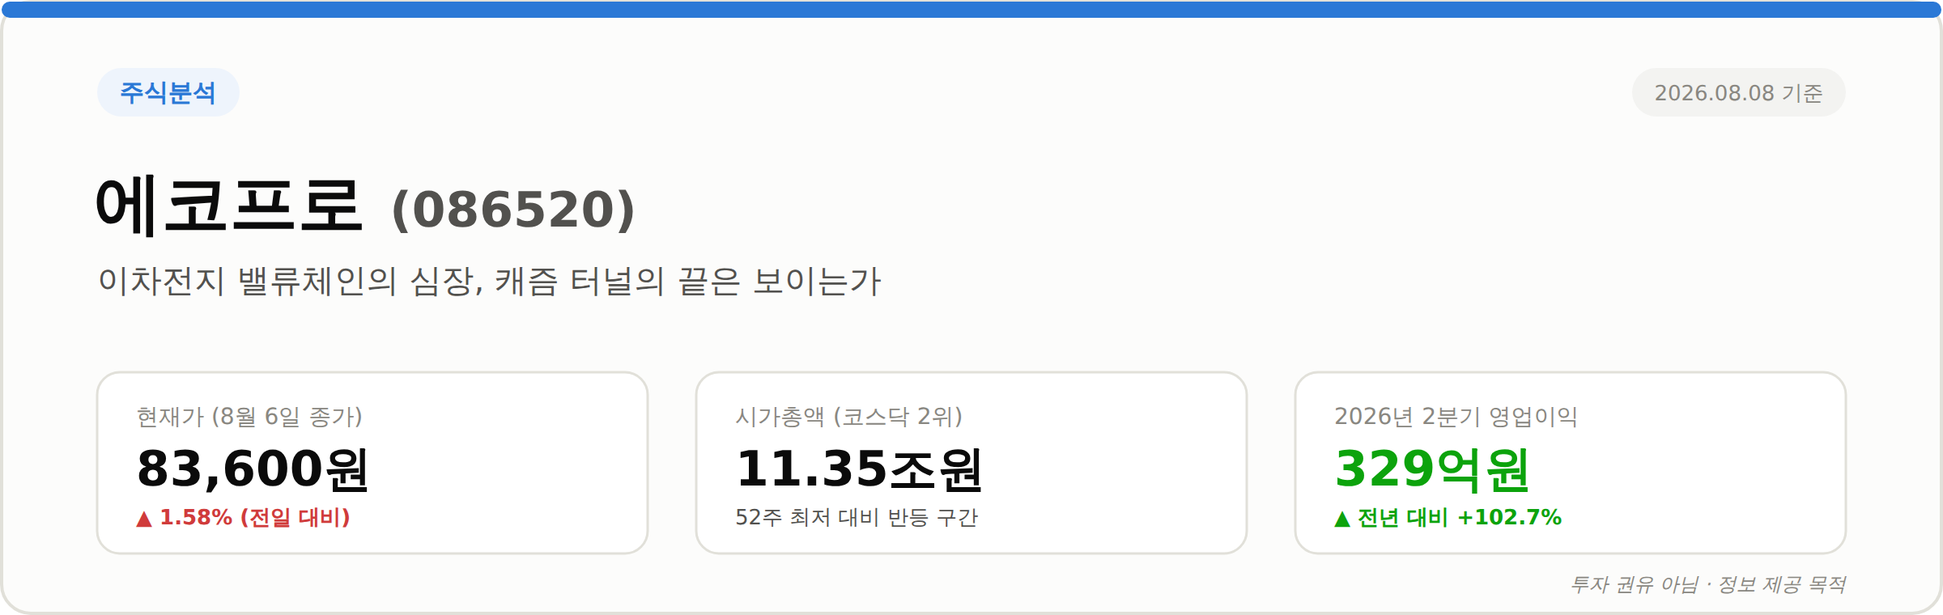
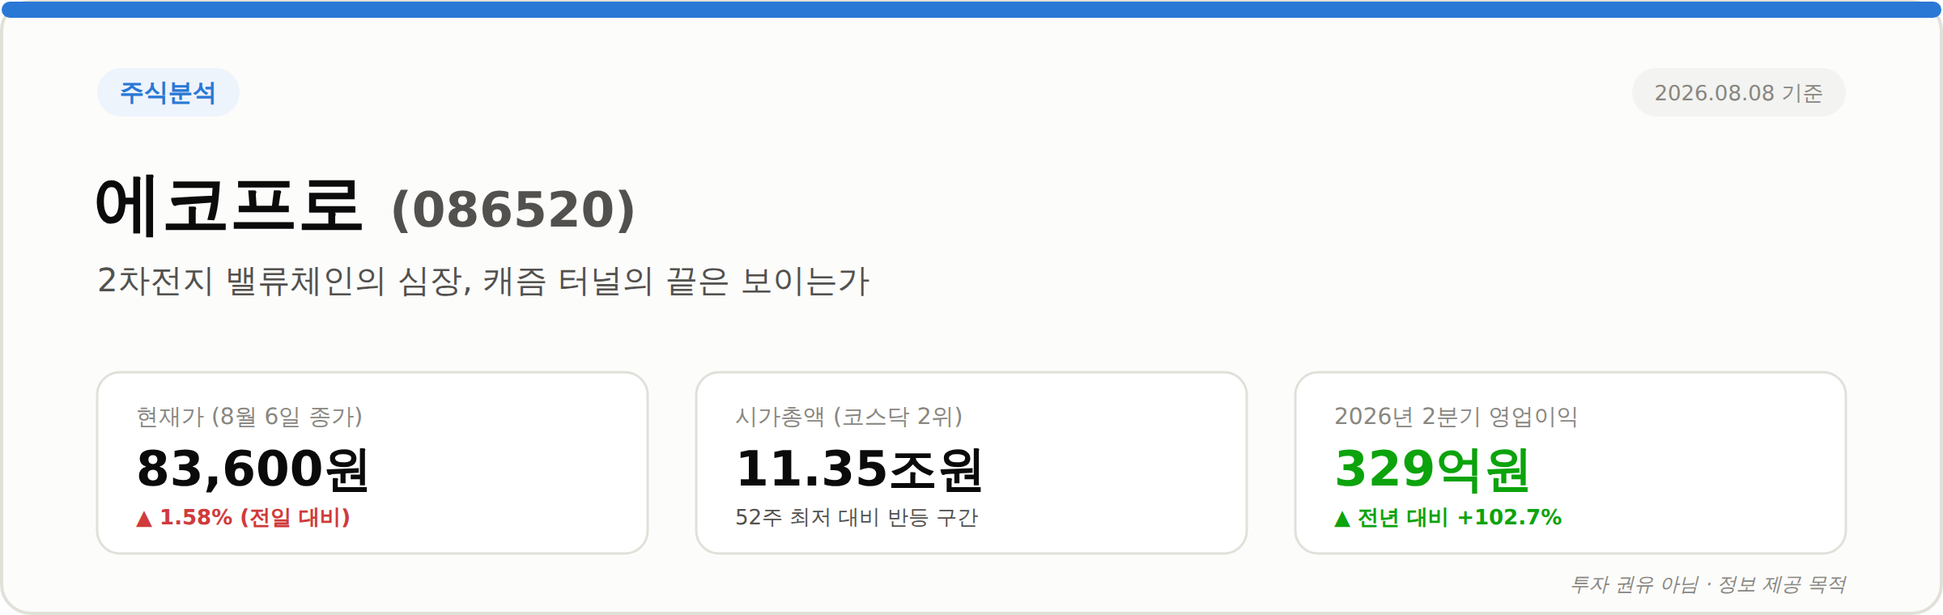
fix: 에코프로 글 용어 통일(이차전지→2차전지) 및 업종 전망 섹션 추가 (#21)
- "이차전지"를 "2차전지"로 전체 통일 (제목/태그/본문/커버 이미지)
- 새 섹션 "2차전지 업종 전망: 회복의 축은 전기차보다 ESS" 추가
  - 2026년 EV 배터리 수요 +13% vs ESS向 +50% 성장 전망, AI 데이터센터발
    전력 수요 증가, 미국 ESS 시장 확대(2025년 90GWh→2030년 160GWh)
  - 탈중국 공급망 재편에 따른 국내 업체 반사이익 기대감
  - 글로벌 양극재 출하량 LFP 72% vs 하이니켈 28%로 재편된 시장 구도와
    국내 업체들의 LFP·전고체 투트랙 대응
  - 에코프로비엠의 LFP 샘플 공급 개시 및 신중한 투자 재검토 현황
- 시나리오/투자포인트/리스크 섹션에도 ESS·LFP 전환 관련 내용 반영
- 커버 이미지(PNG) 재생성, 섹션 번호 재정렬(1~9)
- marked 렌더링 전수 검증(별표 노출/취소선 0건) 및 괄호 짝 검증 통과

Claude-Session: https://claude.ai/code/session_01WzxL9fDSxe2pwdrpmEY5Nh

Changed region(s): [[0.0312, 0.4237, 0.4688, 0.4842]]

diff --git a/src/App.tsx b/src/App.tsx
@@ -9,17 +9,17 @@ import { Post } from './types';
 const samplePosts: Post[] = [
   {
     id: 'post-11',
-    title: '에코프로(086520) 주가 분석 - 이차전지 밸류체인의 심장, 캐즘 터널의 끝은 보이는가',
+    title: '에코프로(086520) 주가 분석 - 2차전지 밸류체인의 심장, 캐즘 터널의 끝은 보이는가',
     category: '주식',
     date: '2026-08-08',
-    tags: ['주식', '에코프로', '086520', '이차전지', '양극재', '리튬', '종목분석', '코스닥'],
+    tags: ['주식', '에코프로', '086520', '2차전지', '양극재', '리튬', 'ESS', '종목분석', '코스닥'],
     naverCategory: '국내주식',
     filePath: 'posts/stock/ecopro-analysis.md',
-    content: `# 에코프로(086520) 주가 분석 - 이차전지 밸류체인의 심장, 캐즘 터널의 끝은 보이는가
+    content: `# 에코프로(086520) 주가 분석 - 2차전지 밸류체인의 심장, 캐즘 터널의 끝은 보이는가
 
 ![에코프로(086520) 주식분석 커버 이미지 - 현재가 83,600원, 시가총액 11.35조원(코스닥 2위), 2026년 2분기 영업이익 329억원(+102.7%)](/images/ecopro-stock/ecopro-cover.png)
 
-한때 "코스닥 황제주"로 불리며 국내 개인투자자들의 이차전지 열풍을 상징했던 종목, **에코프로**(086520)를 분석해 보려고 합니다. 2023년 화려한 랠리 이후 오랜 조정을 거쳐온 이 종목이 지금은 어떤 국면에 있는지, 그룹 밸류체인 구조와 최근 실적을 중심으로 정리해 봤습니다.
+한때 "코스닥 황제주"로 불리며 국내 개인투자자들의 2차전지 열풍을 상징했던 종목, **에코프로**(086520)를 분석해 보려고 합니다. 2023년 화려한 랠리 이후 오랜 조정을 거쳐온 이 종목이 지금은 어떤 국면에 있는지, 2차전지 업종 전반의 흐름과 함께 그룹 밸류체인 구조·최근 실적을 정리해 봤습니다.
 
 > ⚠ 이 글은 특정 종목의 매수·매도를 권유하는 글이 아니며, 투자 판단과 책임은 투자자 본인에게 있습니다. 수치는 공시 및 언론 보도를 바탕으로 정리했고, 일부 수치(52주 고점 등)는 발표된 등락률을 역산한 추정치입니다. 투자 전 최신 공시자료를 반드시 직접 확인해 주세요.
 
@@ -40,7 +40,21 @@ const samplePosts: Post[] = [
 
 ---
 
-## 2. 주가는 지금 어디에: 저점은 지났지만 고점은 아직 먼 조정 구간
+## 2. 2차전지 업종 전망: 회복의 축은 전기차보다 ESS
+
+에코프로 개별 종목을 보기 전에, 지금 2차전지 업종 전체가 어떤 흐름인지부터 짚어볼게요. 2026년 업황은 유럽 전기차 수요 회복과 미국 ESS(에너지저장장치) 수요 확대에 힘입어 반등 국면에 들어섰다는 평가가 늘고 있는데, 다만 성장을 이끄는 축 자체가 예전과는 달라졌다는 점이 눈에 띕니다.
+
+- **성장 축의 이동**: 2026년 전기차용 배터리 수요는 전년 대비 +13% 성장이 예상되는 반면, ESS向 배터리 수요는 +50% 성장이 전망돼요. "회복은 전기차보다 ESS가 이끈다"는 게 업계의 공통된 시각입니다.
+- **배경**: AI 데이터센터 전력 수요가 급증하면서 대규모 저장장치 수요가 함께 늘고 있고, 미국 ESS 시장은 2025년 90GWh에서 2030년 160GWh 규모로 확대될 것으로 전망돼요.
+- **탈중국 공급망 재편**: 미국·유럽이 중국산 배제 정책을 강화하면서, 비중국산 배터리 소재 공급망을 갖춘 국내 업체들에게 반사이익 기대감이 커지는 중입니다.
+- **시장 구도 변화**: 2025년 기준 글로벌 양극재 출하량은 LFP가 72%, 하이니켈(삼원계)이 28%로 이미 LFP가 대세예요. 국내 업체들은 그동안 강점이었던 하이니켈에만 안주하지 않고, LFP·전고체까지 포트폴리오를 넓히는 "투트랙" 전략으로 대응하고 있습니다.
+- **신규 수요처**: 휴머노이드 로봇, UAM(도심항공교통), 드론 등 신규 모빌리티向 배터리 소재 수요도 새롭게 떠오르고 있어요.
+
+에코프로비엠도 하이니켈 중심 포트폴리오에서 벗어나 LFP 양극재를 전구체·무전구체 방식 투트랙으로 개발 중이며, 올해 2분기부터 수백 톤 규모 샘플 공급을 시작했습니다. 다만 최근 LFP 관련 신규 투자 계획은 지역별 수요와 정책 환경을 지켜보며 선별적으로 재검토하는 등, 공격적인 확장보다는 신중한 접근을 택하는 모습이에요.
+
+---
+
+## 3. 주가는 지금 어디에: 저점은 지났지만 고점은 아직 먼 조정 구간
 
 ![에코프로 최근 1년 주가 흐름 차트 - 52주 최저 37,750원에서 반등해 고점을 찍었다가 2025년 12월 96,800원을 거쳐 2026년 8월 6일 83,600원으로 조정 중이며, 향후 낙관(10만원대)과 비관(5만원대) 두 시나리오를 보여줌](/images/ecopro-stock/ecopro-price-trend.png)
 
@@ -54,7 +68,7 @@ const samplePosts: Post[] = [
 
 ---
 
-## 3. 최근 실적: 배터리는 부진한데 지주사 이익은 늘어난 역설
+## 4. 최근 실적: 배터리는 부진한데 지주사 이익은 늘어난 역설
 
 | 구분 | 2026년 2분기 실적 |
 | --- | --- |
@@ -68,34 +82,37 @@ const samplePosts: Post[] = [
 
 ---
 
-## 4. 앞으로의 향방: 두 가지 시나리오
+## 5. 앞으로의 향방: 두 가지 시나리오
 
-### 📈 낙관 시나리오 (전기차 수요 회복 + 하이니켈 재개)
-- 전기차 수요가 2분기 이후 반등 조짐을 보이며 하이니켈 양극재 수요가 다시 살아나는 흐름
+### 📈 낙관 시나리오 (ESS·탈중국 수혜 + 하이니켈 재개)
+- 미국 ESS 시장 확대와 탈중국 공급망 재편 수혜가 본격화되며 비중국산 소재 수요가 국내 업체로 몰리는 흐름
+- 전기차 수요도 2분기 이후 반등 조짐을 보이며 하이니켈 양극재 수요가 다시 살아나는 흐름
 - 증권가에서는 에코프로비엠 목표주가를 24.6만원에서 28만원으로 상향(NH투자증권)하는 등 "최악의 구간은 지났다"는 평가가 늘어나는 중
 - Non-EV·반도체 소재 등 다각화 매출이 계속 이익을 방어하며 지주사 이익 체력이 유지되는 흐름
-- 관전 포인트: 3분기 이후 전기차 배터리 판매 물량의 실질적인 반등 여부
+- 관전 포인트: 3분기 이후 전기차 배터리 판매 물량의 실질적인 반등 여부, LFP 샘플 공급이 실제 수주로 이어지는지
 
-### 📉 비관 시나리오 (캐즘 재심화 + 중국 저가 공세)
+### 📉 비관 시나리오 (캐즘 재심화 + LFP 전환 지연)
 - 전기차 수요 반등이 일시적 반등에 그치고 캐즘(수요 둔화)이 다시 깊어지는 흐름
-- 중국 양극재·리튬 업체들의 저가 공세가 지속되며 가격 경쟁력 압박이 커짐
+- 이미 출하량 기준 시장의 72%를 차지한 중국 LFP 업체들에 밀려, 국내 업체들의 LFP 전환이 계속 늦어지는 흐름
 - 리튬 등 원자재 가격이 재차 하락하며 그룹 전반의 이익 방어력이 약해짐
 - 이 경우 주가는 다시 52주 최저가 부근인 5만원대까지 되밀릴 가능성
 
-두 시나리오 모두 결국 핵심은 "전기차 수요가 진짜 살아나느냐"입니다. 에코프로 그룹의 밸류체인 자체는 견고하지만, 그 밸류체인이 만들어내는 이익의 크기는 결국 전방 산업인 전기차 시장의 회복 속도에 달려 있다는 점을 함께 봐야 합니다.
+두 시나리오 모두 결국 핵심은 "2차전지 수요 회복이 진짜냐, 그리고 그 회복의 열매를 국내 업체가 가져갈 수 있느냐"입니다. 에코프로 그룹의 밸류체인 자체는 견고하지만, 그 밸류체인이 만들어내는 이익의 크기는 결국 전방 산업(전기차·ESS)의 회복 속도와 LFP 대응 속도에 함께 달려 있다는 점을 봐야 합니다.
 
 ---
 
-## 5. 투자 포인트 (강점)
+## 6. 투자 포인트 (강점)
 
 - **수직계열화된 밸류체인**: 원료(니켈·리튬)부터 전구체·양극재·재활용까지 그룹 내에서 순환하는 구조로 원가 경쟁력과 공급망 안정성을 함께 확보
 - **사업 다각화에 따른 이익 방어력**: 이번 분기 실적으로 배터리 부진을 리튬·환경 사업이 방어한다는 점이 실제로 증명됨
+- **차세대 포트폴리오 대응**: 하이니켈 중심에서 LFP·전고체까지 투트랙으로 개발 중이라 ESS·신규 모빌리티向 수요 확대에도 대응할 여지가 있음
 - **개선되는 증권가 시각**: 자회사 에코프로비엠에 대한 목표주가 상향 리포트가 늘어나는 등 업황 반등 기대감이 조금씩 반영되는 중
 - **Non-EV·반도체 소재 다변화**: 전동공구, ESS, 반도체 소재 등으로 매출처를 넓히며 전기차 의존도를 낮추는 중
 
-## 6. 리스크 요인
+## 7. 리스크 요인
 
 - **전기차 캐즘 지속 가능성**: 지난 1~2년간 주가 부진의 핵심 원인이었던 수요 둔화가 완전히 해소됐다고 보기는 아직 이름
+- **LFP 전환 속도 리스크**: 글로벌 양극재 시장이 이미 LFP 중심(출하량 72%)으로 재편된 가운데, 하이니켈에 강점을 가진 국내 업체들의 LFP 대응이 늦어질 경우 경쟁력이 약해질 수 있음
 - **중국 업체의 저가 공세**: LFP 등 저가 배터리 소재 시장에서 중국 업체들의 점유율 확대 압박
 - **원자재 가격 변동성**: 리튬·니켈 등 원자재 가격에 이익 구조가 민감하게 반응
 - **지주사 디스카운트**: 핵심 사업가치 상당 부분이 상장 자회사(에코프로비엠 등)에 있어, 지주사 주가에는 할인 요인이 함께 작용할 수 있음
@@ -103,7 +120,7 @@ const samplePosts: Post[] = [
 
 ---
 
-## 7. 밸류에이션 체크
+## 8. 밸류에이션 체크
 
 - 에코프로(지주회사)는 자회사인 에코프로비엠 대비 증권사 커버리지가 적은 편이라, 목표주가 컨센서스의 신뢰도 자체가 낮은 편입니다. 특정 목표주가 하나만 보고 판단하기보다는, 자회사들의 실적과 업황 리포트를 함께 참고하는 편이 안전합니다.
 - 자회사 에코프로비엠에 대해서는 22만원(Trading Buy, IBK투자증권)부터 28만원(매수, NH투자증권)까지 목표주가가 제시되고 있어, 업황에 대한 시선 자체는 조금씩 개선되는 분위기입니다.
@@ -111,15 +128,17 @@ const samplePosts: Post[] = [
 
 ---
 
-## 8. 결론 및 투자자 시사점
+## 9. 결론 및 투자자 시사점
 
 에코프로는 "니켈·리튬 원료부터 재활용까지" 이어지는 보기 드문 수직계열화 구조를 가진 회사입니다. 2023년의 화려한 랠리와 그 이후의 긴 조정을 모두 겪으며, 지금은 배터리 한 사업만이 아니라 리튬·환경·반도체 소재까지 다각화된 이익 구조로 조금씩 체질을 바꾸고 있는 모습이 눈에 띕니다. 이번 2분기 실적에서 배터리 부진을 다른 사업부가 방어했다는 점이 그 증거입니다.
 
-다만 결국 주가의 방향을 결정할 핵심 변수는 ①전기차 수요 회복의 실질적인 속도, ②중국 업체와의 가격 경쟁, ③리튬 등 원자재 가격 흐름이라는 세 가지로 요약됩니다. 다음 분기 실적에서 Non-EV 물량 확대가 이어지는지, 그리고 전기차용 양극재 판매가 실제로 반등하는지를 함께 확인하시는 것을 추천드립니다.
+여기에 2차전지 업종 전체로 보면, 회복의 축이 전기차에서 ESS로 옮겨가고 있고 미국·유럽의 탈중국 공급망 재편이 국내 업체들에게 기회로 작용할 수 있다는 점도 함께 봐야 할 변수입니다. 다만 이미 시장의 대세가 된 LFP로의 전환 속도, 그리고 여전히 불확실한 전기차 수요 회복 속도라는 두 축이 앞으로의 방향을 가를 것으로 보입니다.
+
+결국 주가의 방향을 결정할 핵심 변수는 ①전기차·ESS 수요 회복의 실질적인 속도, ②LFP·전고체 등 차세대 소재 전환 대응력, ③중국 업체와의 가격 경쟁, ④리튬 등 원자재 가격 흐름이라는 네 가지로 요약됩니다. 다음 분기 실적에서 Non-EV·ESS向 물량 확대가 이어지는지, 그리고 LFP 샘플 공급이 실제 수주로 이어지는지를 함께 확인하시는 것을 추천드립니다.
 
 투자는 언제나 최신 공시자료와 분기 실적, 그리고 그날그날의 업황 뉴스를 직접 확인하신 후 신중하게 결정하시길 바랍니다. 📊
 
-#에코프로 #086520 #이차전지 #양극재 #리튬 #종목분석 #코스닥 #주식공부`
+#에코프로 #086520 #2차전지 #양극재 #리튬 #ESS #종목분석 #코스닥 #주식공부`
   },
   {
     id: 'post-10',

diff --git a/posts/stock/ecopro-analysis.md b/posts/stock/ecopro-analysis.md
@@ -1,16 +1,16 @@
 ---
-title: "에코프로(086520) 주가 분석 - 이차전지 밸류체인의 심장, 캐즘 터널의 끝은 보이는가"
+title: "에코프로(086520) 주가 분석 - 2차전지 밸류체인의 심장, 캐즘 터널의 끝은 보이는가"
 category: "주식"
 date: "2026-08-08"
-tags: ["주식", "에코프로", "086520", "이차전지", "양극재", "리튬", "종목분석", "코스닥"]
+tags: ["주식", "에코프로", "086520", "2차전지", "양극재", "리튬", "ESS", "종목분석", "코스닥"]
 naverCategory: "국내주식"
 ---
 
-# 에코프로(086520) 주가 분석 - 이차전지 밸류체인의 심장, 캐즘 터널의 끝은 보이는가
+# 에코프로(086520) 주가 분석 - 2차전지 밸류체인의 심장, 캐즘 터널의 끝은 보이는가
 
 ![에코프로(086520) 주식분석 커버 이미지 - 현재가 83,600원, 시가총액 11.35조원(코스닥 2위), 2026년 2분기 영업이익 329억원(+102.7%)](/images/ecopro-stock/ecopro-cover.png)
 
-한때 "코스닥 황제주"로 불리며 국내 개인투자자들의 이차전지 열풍을 상징했던 종목, **에코프로**(086520)를 분석해 보려고 합니다. 2023년 화려한 랠리 이후 오랜 조정을 거쳐온 이 종목이 지금은 어떤 국면에 있는지, 그룹 밸류체인 구조와 최근 실적을 중심으로 정리해 봤습니다.
+한때 "코스닥 황제주"로 불리며 국내 개인투자자들의 2차전지 열풍을 상징했던 종목, **에코프로**(086520)를 분석해 보려고 합니다. 2023년 화려한 랠리 이후 오랜 조정을 거쳐온 이 종목이 지금은 어떤 국면에 있는지, 2차전지 업종 전반의 흐름과 함께 그룹 밸류체인 구조·최근 실적을 정리해 봤습니다.
 
 > ⚠ 이 글은 특정 종목의 매수·매도를 권유하는 글이 아니며, 투자 판단과 책임은 투자자 본인에게 있습니다. 수치는 공시 및 언론 보도를 바탕으로 정리했고, 일부 수치(52주 고점 등)는 발표된 등락률을 역산한 추정치입니다. 투자 전 최신 공시자료를 반드시 직접 확인해 주세요.
 
@@ -31,7 +31,21 @@ naverCategory: "국내주식"
 
 ---
 
-## 2. 주가는 지금 어디에: 저점은 지났지만 고점은 아직 먼 조정 구간
+## 2. 2차전지 업종 전망: 회복의 축은 전기차보다 ESS
+
+에코프로 개별 종목을 보기 전에, 지금 2차전지 업종 전체가 어떤 흐름인지부터 짚어볼게요. 2026년 업황은 유럽 전기차 수요 회복과 미국 ESS(에너지저장장치) 수요 확대에 힘입어 반등 국면에 들어섰다는 평가가 늘고 있는데, 다만 성장을 이끄는 축 자체가 예전과는 달라졌다는 점이 눈에 띕니다.
+
+- **성장 축의 이동**: 2026년 전기차용 배터리 수요는 전년 대비 +13% 성장이 예상되는 반면, ESS向 배터리 수요는 +50% 성장이 전망돼요. "회복은 전기차보다 ESS가 이끈다"는 게 업계의 공통된 시각입니다.
+- **배경**: AI 데이터센터 전력 수요가 급증하면서 대규모 저장장치 수요가 함께 늘고 있고, 미국 ESS 시장은 2025년 90GWh에서 2030년 160GWh 규모로 확대될 것으로 전망돼요.
+- **탈중국 공급망 재편**: 미국·유럽이 중국산 배제 정책을 강화하면서, 비중국산 배터리 소재 공급망을 갖춘 국내 업체들에게 반사이익 기대감이 커지는 중입니다.
+- **시장 구도 변화**: 2025년 기준 글로벌 양극재 출하량은 LFP가 72%, 하이니켈(삼원계)이 28%로 이미 LFP가 대세예요. 국내 업체들은 그동안 강점이었던 하이니켈에만 안주하지 않고, LFP·전고체까지 포트폴리오를 넓히는 "투트랙" 전략으로 대응하고 있습니다.
+- **신규 수요처**: 휴머노이드 로봇, UAM(도심항공교통), 드론 등 신규 모빌리티向 배터리 소재 수요도 새롭게 떠오르고 있어요.
+
+에코프로비엠도 하이니켈 중심 포트폴리오에서 벗어나 LFP 양극재를 전구체·무전구체 방식 투트랙으로 개발 중이며, 올해 2분기부터 수백 톤 규모 샘플 공급을 시작했습니다. 다만 최근 LFP 관련 신규 투자 계획은 지역별 수요와 정책 환경을 지켜보며 선별적으로 재검토하는 등, 공격적인 확장보다는 신중한 접근을 택하는 모습이에요.
+
+---
+
+## 3. 주가는 지금 어디에: 저점은 지났지만 고점은 아직 먼 조정 구간
 
 ![에코프로 최근 1년 주가 흐름 차트 - 52주 최저 37,750원에서 반등해 고점을 찍었다가 2025년 12월 96,800원을 거쳐 2026년 8월 6일 83,600원으로 조정 중이며, 향후 낙관(10만원대)과 비관(5만원대) 두 시나리오를 보여줌](/images/ecopro-stock/ecopro-price-trend.png)
 
@@ -45,7 +59,7 @@ naverCategory: "국내주식"
 
 ---
 
-## 3. 최근 실적: 배터리는 부진한데 지주사 이익은 늘어난 역설
+## 4. 최근 실적: 배터리는 부진한데 지주사 이익은 늘어난 역설
 
 | 구분 | 2026년 2분기 실적 |
 | --- | --- |
@@ -59,34 +73,37 @@ naverCategory: "국내주식"
 
 ---
 
-## 4. 앞으로의 향방: 두 가지 시나리오
+## 5. 앞으로의 향방: 두 가지 시나리오
 
-### 📈 낙관 시나리오 (전기차 수요 회복 + 하이니켈 재개)
-- 전기차 수요가 2분기 이후 반등 조짐을 보이며 하이니켈 양극재 수요가 다시 살아나는 흐름
+### 📈 낙관 시나리오 (ESS·탈중국 수혜 + 하이니켈 재개)
+- 미국 ESS 시장 확대와 탈중국 공급망 재편 수혜가 본격화되며 비중국산 소재 수요가 국내 업체로 몰리는 흐름
+- 전기차 수요도 2분기 이후 반등 조짐을 보이며 하이니켈 양극재 수요가 다시 살아나는 흐름
 - 증권가에서는 에코프로비엠 목표주가를 24.6만원에서 28만원으로 상향(NH투자증권)하는 등 "최악의 구간은 지났다"는 평가가 늘어나는 중
 - Non-EV·반도체 소재 등 다각화 매출이 계속 이익을 방어하며 지주사 이익 체력이 유지되는 흐름
-- 관전 포인트: 3분기 이후 전기차 배터리 판매 물량의 실질적인 반등 여부
+- 관전 포인트: 3분기 이후 전기차 배터리 판매 물량의 실질적인 반등 여부, LFP 샘플 공급이 실제 수주로 이어지는지
 
-### 📉 비관 시나리오 (캐즘 재심화 + 중국 저가 공세)
+### 📉 비관 시나리오 (캐즘 재심화 + LFP 전환 지연)
 - 전기차 수요 반등이 일시적 반등에 그치고 캐즘(수요 둔화)이 다시 깊어지는 흐름
-- 중국 양극재·리튬 업체들의 저가 공세가 지속되며 가격 경쟁력 압박이 커짐
+- 이미 출하량 기준 시장의 72%를 차지한 중국 LFP 업체들에 밀려, 국내 업체들의 LFP 전환이 계속 늦어지는 흐름
 - 리튬 등 원자재 가격이 재차 하락하며 그룹 전반의 이익 방어력이 약해짐
 - 이 경우 주가는 다시 52주 최저가 부근인 5만원대까지 되밀릴 가능성
 
-두 시나리오 모두 결국 핵심은 "전기차 수요가 진짜 살아나느냐"입니다. 에코프로 그룹의 밸류체인 자체는 견고하지만, 그 밸류체인이 만들어내는 이익의 크기는 결국 전방 산업인 전기차 시장의 회복 속도에 달려 있다는 점을 함께 봐야 합니다.
+두 시나리오 모두 결국 핵심은 "2차전지 수요 회복이 진짜냐, 그리고 그 회복의 열매를 국내 업체가 가져갈 수 있느냐"입니다. 에코프로 그룹의 밸류체인 자체는 견고하지만, 그 밸류체인이 만들어내는 이익의 크기는 결국 전방 산업(전기차·ESS)의 회복 속도와 LFP 대응 속도에 함께 달려 있다는 점을 봐야 합니다.
 
 ---
 
-## 5. 투자 포인트 (강점)
+## 6. 투자 포인트 (강점)
 
 - **수직계열화된 밸류체인**: 원료(니켈·리튬)부터 전구체·양극재·재활용까지 그룹 내에서 순환하는 구조로 원가 경쟁력과 공급망 안정성을 함께 확보
 - **사업 다각화에 따른 이익 방어력**: 이번 분기 실적으로 배터리 부진을 리튬·환경 사업이 방어한다는 점이 실제로 증명됨
+- **차세대 포트폴리오 대응**: 하이니켈 중심에서 LFP·전고체까지 투트랙으로 개발 중이라 ESS·신규 모빌리티向 수요 확대에도 대응할 여지가 있음
 - **개선되는 증권가 시각**: 자회사 에코프로비엠에 대한 목표주가 상향 리포트가 늘어나는 등 업황 반등 기대감이 조금씩 반영되는 중
 - **Non-EV·반도체 소재 다변화**: 전동공구, ESS, 반도체 소재 등으로 매출처를 넓히며 전기차 의존도를 낮추는 중
 
-## 6. 리스크 요인
+## 7. 리스크 요인
 
 - **전기차 캐즘 지속 가능성**: 지난 1~2년간 주가 부진의 핵심 원인이었던 수요 둔화가 완전히 해소됐다고 보기는 아직 이름
+- **LFP 전환 속도 리스크**: 글로벌 양극재 시장이 이미 LFP 중심(출하량 72%)으로 재편된 가운데, 하이니켈에 강점을 가진 국내 업체들의 LFP 대응이 늦어질 경우 경쟁력이 약해질 수 있음
 - **중국 업체의 저가 공세**: LFP 등 저가 배터리 소재 시장에서 중국 업체들의 점유율 확대 압박
 - **원자재 가격 변동성**: 리튬·니켈 등 원자재 가격에 이익 구조가 민감하게 반응
 - **지주사 디스카운트**: 핵심 사업가치 상당 부분이 상장 자회사(에코프로비엠 등)에 있어, 지주사 주가에는 할인 요인이 함께 작용할 수 있음
@@ -94,7 +111,7 @@ naverCategory: "국내주식"
 
 ---
 
-## 7. 밸류에이션 체크
+## 8. 밸류에이션 체크
 
 - 에코프로(지주회사)는 자회사인 에코프로비엠 대비 증권사 커버리지가 적은 편이라, 목표주가 컨센서스의 신뢰도 자체가 낮은 편입니다. 특정 목표주가 하나만 보고 판단하기보다는, 자회사들의 실적과 업황 리포트를 함께 참고하는 편이 안전합니다.
 - 자회사 에코프로비엠에 대해서는 22만원(Trading Buy, IBK투자증권)부터 28만원(매수, NH투자증권)까지 목표주가가 제시되고 있어, 업황에 대한 시선 자체는 조금씩 개선되는 분위기입니다.
@@ -102,12 +119,14 @@ naverCategory: "국내주식"
 
 ---
 
-## 8. 결론 및 투자자 시사점
+## 9. 결론 및 투자자 시사점
 
 에코프로는 "니켈·리튬 원료부터 재활용까지" 이어지는 보기 드문 수직계열화 구조를 가진 회사입니다. 2023년의 화려한 랠리와 그 이후의 긴 조정을 모두 겪으며, 지금은 배터리 한 사업만이 아니라 리튬·환경·반도체 소재까지 다각화된 이익 구조로 조금씩 체질을 바꾸고 있는 모습이 눈에 띕니다. 이번 2분기 실적에서 배터리 부진을 다른 사업부가 방어했다는 점이 그 증거입니다.
 
-다만 결국 주가의 방향을 결정할 핵심 변수는 ①전기차 수요 회복의 실질적인 속도, ②중국 업체와의 가격 경쟁, ③리튬 등 원자재 가격 흐름이라는 세 가지로 요약됩니다. 다음 분기 실적에서 Non-EV 물량 확대가 이어지는지, 그리고 전기차용 양극재 판매가 실제로 반등하는지를 함께 확인하시는 것을 추천드립니다.
+여기에 2차전지 업종 전체로 보면, 회복의 축이 전기차에서 ESS로 옮겨가고 있고 미국·유럽의 탈중국 공급망 재편이 국내 업체들에게 기회로 작용할 수 있다는 점도 함께 봐야 할 변수입니다. 다만 이미 시장의 대세가 된 LFP로의 전환 속도, 그리고 여전히 불확실한 전기차 수요 회복 속도라는 두 축이 앞으로의 방향을 가를 것으로 보입니다.
+
+결국 주가의 방향을 결정할 핵심 변수는 ①전기차·ESS 수요 회복의 실질적인 속도, ②LFP·전고체 등 차세대 소재 전환 대응력, ③중국 업체와의 가격 경쟁, ④리튬 등 원자재 가격 흐름이라는 네 가지로 요약됩니다. 다음 분기 실적에서 Non-EV·ESS向 물량 확대가 이어지는지, 그리고 LFP 샘플 공급이 실제 수주로 이어지는지를 함께 확인하시는 것을 추천드립니다.
 
 투자는 언제나 최신 공시자료와 분기 실적, 그리고 그날그날의 업황 뉴스를 직접 확인하신 후 신중하게 결정하시길 바랍니다. 📊
 
-#에코프로 #086520 #이차전지 #양극재 #리튬 #종목분석 #코스닥 #주식공부
+#에코프로 #086520 #2차전지 #양극재 #리튬 #ESS #종목분석 #코스닥 #주식공부
